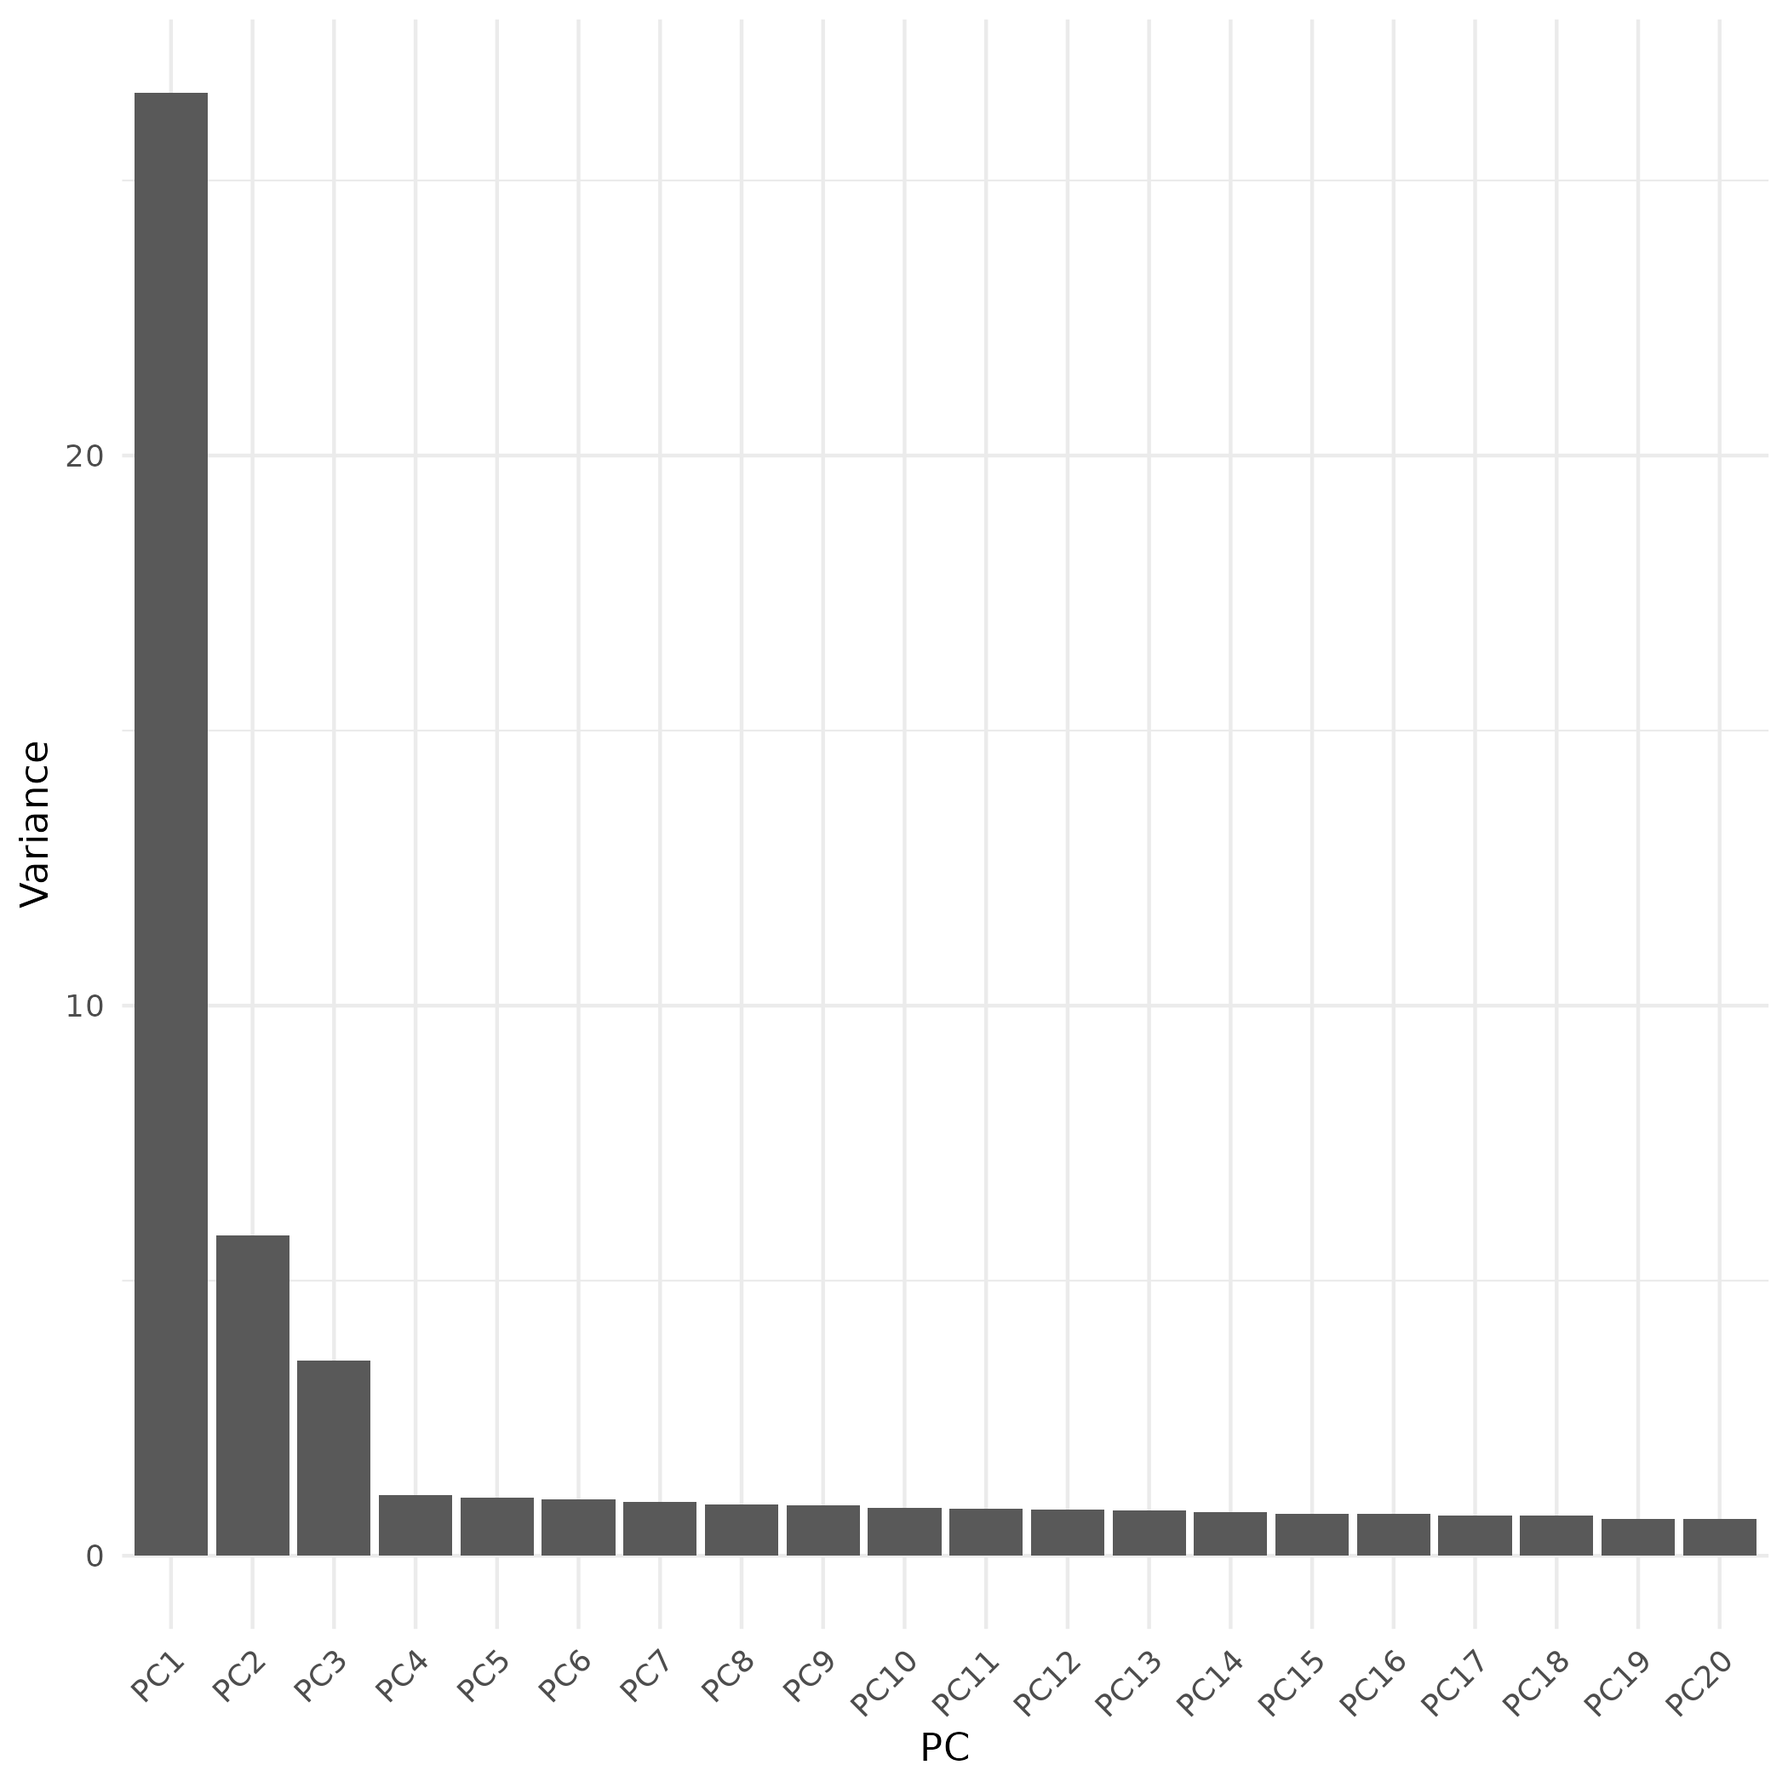
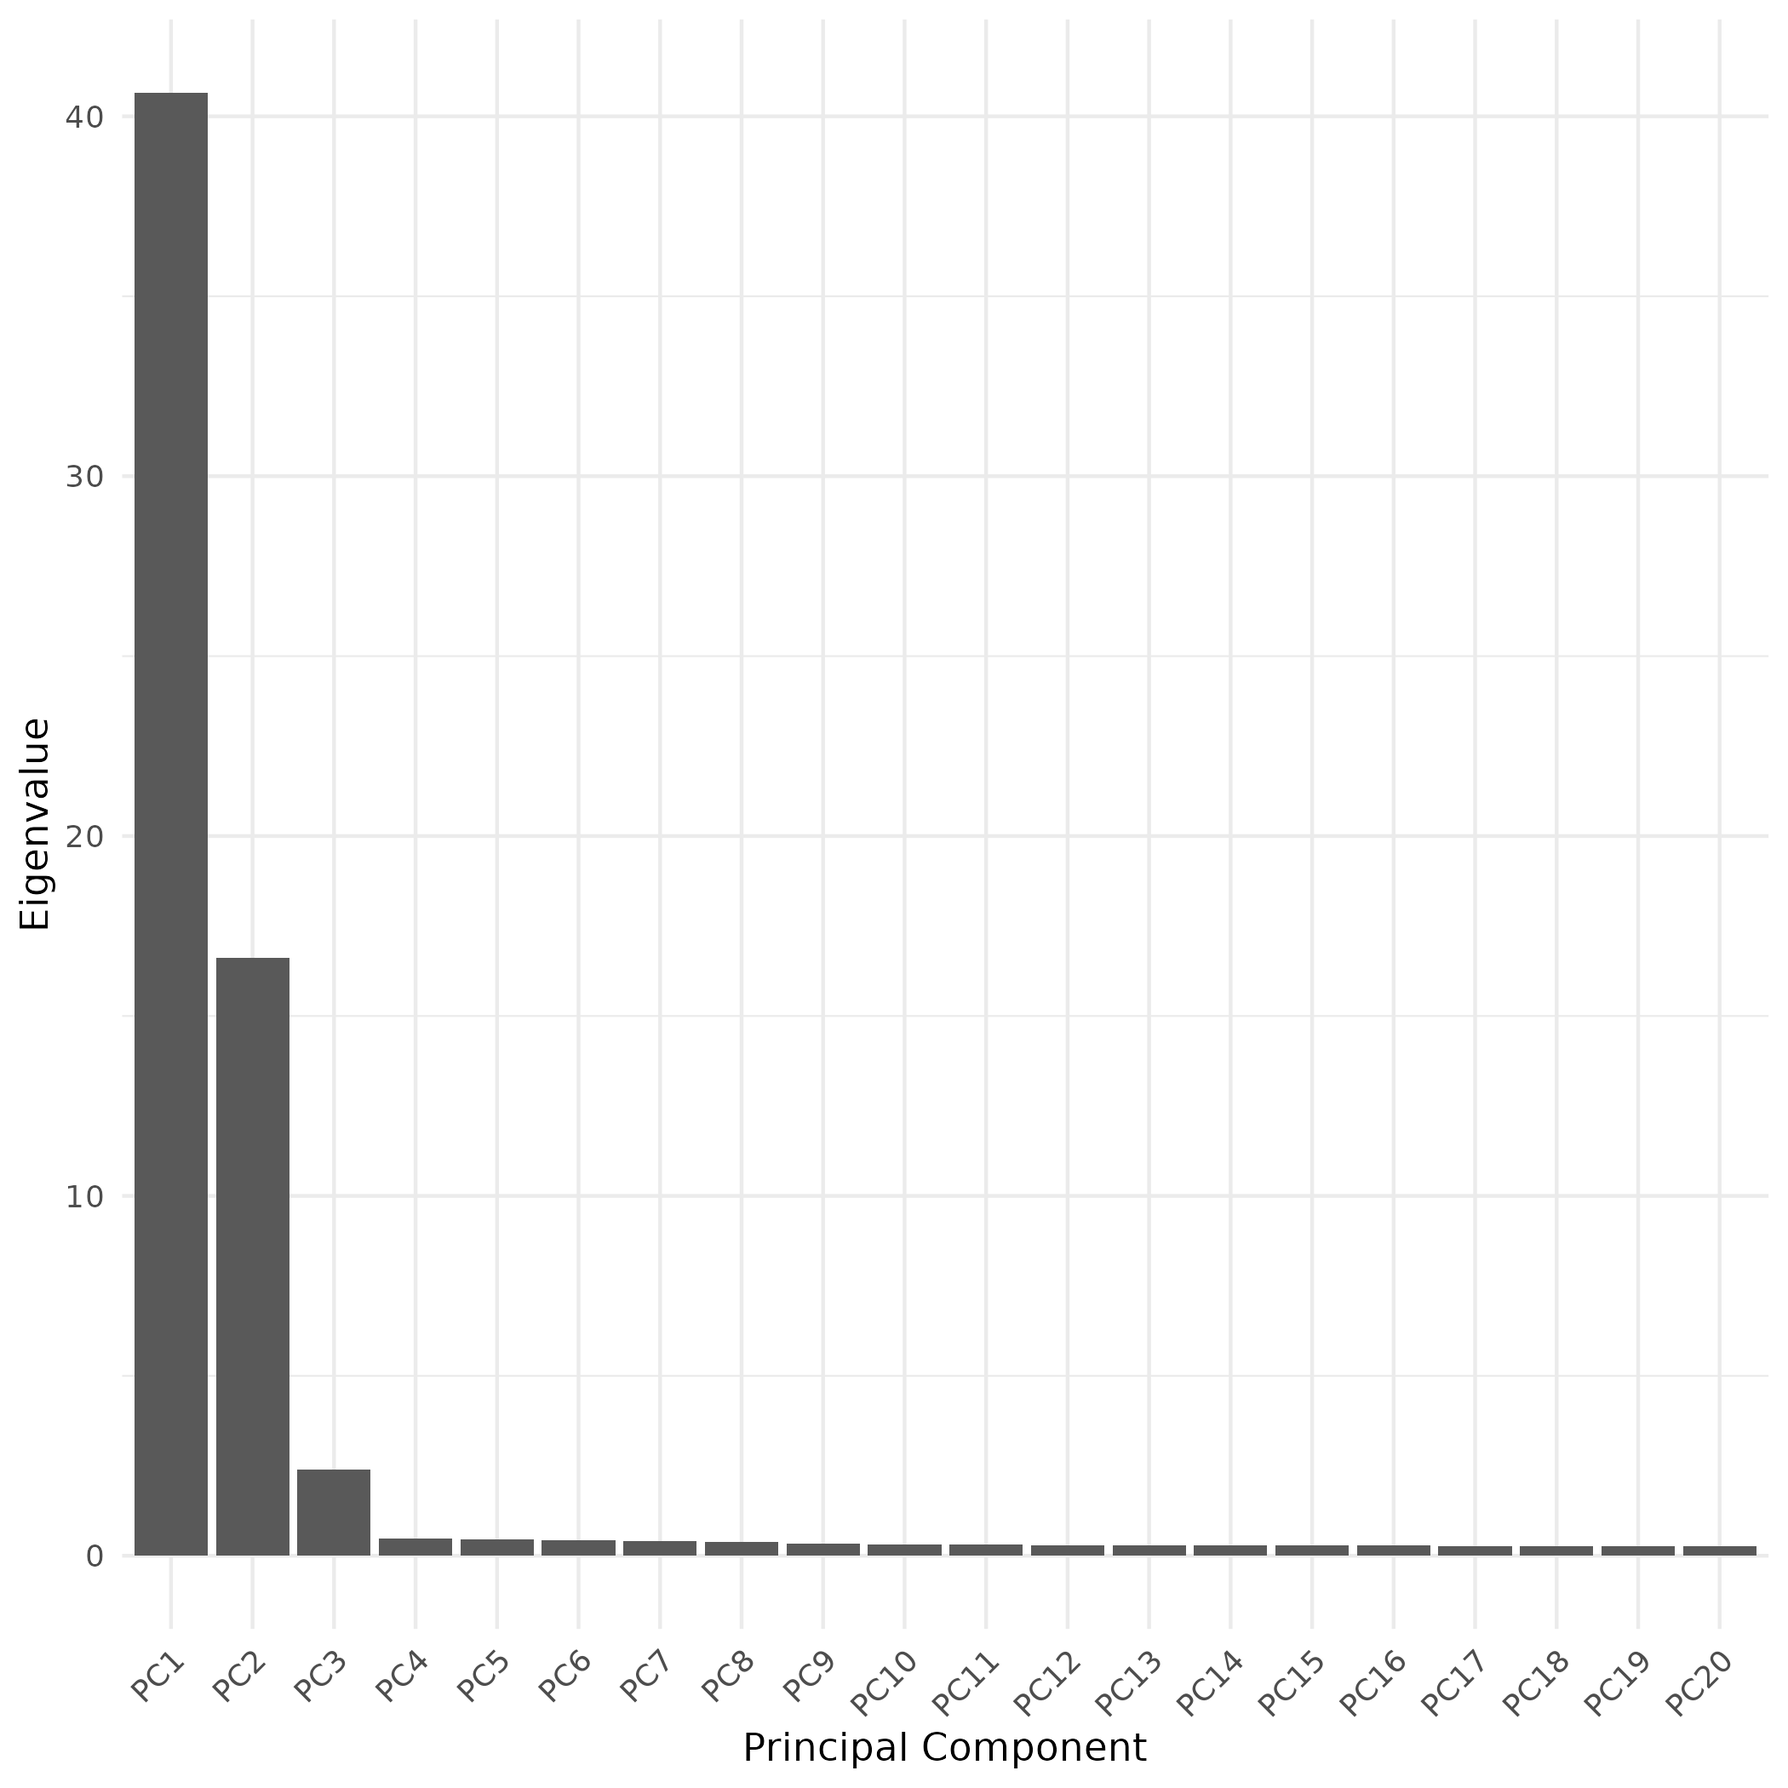
add angsd pca and some updates

diff --git a/README.md b/README.md
@@ -83,6 +83,8 @@ We'll use conda in this tutorial to handle all installations. If [conda](https:/
 
 Now that we've got everything set up, let's start with running a PCA on our genotype data. 
 
+### Using Plink
+
 In this tutorial, we're only using simulated data resembling modern, high coverage sequencing data. When this is the case, we can be pretty confident in our genotype calls in the vcf file, so we can use the genotypes, or specifically the single nucleotide polymorphisms (SNP), in the vcf as input for running the pca. A popular program for running PCA on SNP data is plink. Let's move into the folder 1.1_pca_with_plink, and work inside that folder for this part.
 
 ```bash
@@ -133,8 +135,6 @@ Plink has a lot of different filtering and parsing parameters available, and the
         --geno $missing_snp \
         --maf $minor_allele_freq \
         --make-pgen \
-        --indep-pairwise 50 5 $linkage_pruning_threshold \
-        --bad-ld \
         --rm-dup exclude-all \
         --out $outname
 
@@ -167,18 +167,18 @@ filters out SNPs with a minor allele frequency below the specified threshold. Th
 
 `--make-pgen`
 tells Plink to generate the binary PED files (.pgen, .pvar, .psam) as output.
-
+<!-- 
 `--indep-pairwise 50 5 $linkage_pruning_threshold`
 performs linkage disequilibrium pruning to remove highly correlated SNPs. The parameters `50 5 $linkage_pruning_threshold` specify the window size, step size, and r^2 threshold for pruning, respectively. The variable `$linkage_pruning_threshold` is defined at the beginning of the script and can be adjusted as needed.
 
 `--bad-ld`
-This flag is necessary if using the `--indep-pairwise` command on datasets wuth fewer than 50 individuals, just telling plink to ignore the fact that we're probably getting quite bad ld estimates here to base the pruning on. An alternative is to thin the dataset with physical distance instead, for example with vcftools, prior to running plink.
+This flag is necessary if using the `--indep-pairwise` command on datasets wuth fewer than 50 individuals, just telling plink to ignore the fact that we're probably getting quite bad ld estimates here to base the pruning on. An alternative is to thin the dataset with physical distance instead, for example with vcftools, prior to running plink. -->
 
 `--rm-dup exclude-all`
 removes duplicate variants from the analysis. Duplicate variants can remain in the dataset after decomposing multiallelic sites, and plink will throw an error if this is the case unless this flag is used.
 
 `--freq`
-tells Plink to calculate allele frequencies for the SNPs in the dataset. The output will be written to a file with the `.afreq` extension, which can be used in subsequent analyses, such as PCA. Like the `--bad-ld`, this is required if the number of samples in the data is less than 50, otherwise plink will estimate allele frequencies on the fly.
+tells Plink to calculate allele frequencies for the SNPs in the dataset. The output will be written to a file with the `.afreq` extension, which can be used in subsequent analyses, such as PCA. This is required if the number of samples in the data is less than 50, otherwise plink will estimate allele frequencies on the fly.
 
 `--out $outname`
 specifies the prefix for the output files.
@@ -206,24 +206,212 @@ Let's visualize the first two principal components using a simple scatter plot i
 
 ```bash
 
-    # to be able to plot this with R, we need R and the R-package tidyverse installed. If it isn't install to our environment with conda:
-    conda install -c conda-forge r-base r-tidyverse
+    # to be able to plot this with R, we need R and the R-package tidyverse installed. If it isn't, install to our environment with conda:
+    conda install -c conda-forge r-base r-tidyverse r-ggrepel
 
     # then, we can use the plot_pca.R script:
     Rscript plot_pca.R pca_std_filt/pca_data_std_filt_pca
 
 ```
 
-This will produce two plots, looking something like this:
+This will produce two plots: `pca_std_filt/pca_data_std_filt_pca_pca_plot.png` and `pca_std_filt/pca_data_std_filt_pca_eigenval_bar_plot.png`
 
-<img src="./figures/pca_data_std_filt_pca_pca_plot.png" alt="PCA Plot" width="600">
-<img src="./figures/pca_data_std_filt_pca_eigenval_bar_plot.png" alt="Eigenvalue Bar Plot" width="600">
+Inspect the plots, they should look something like this:
+
+<img src="./figures/pca_data_std_filt_pca_pca_plot.png" alt="PCA Plot" width="500">
+<img src="./figures/pca_data_std_filt_pca_eigenval_bar_plot.png" alt="Eigenvalue Bar Plot" width="500">
 
 The first plot is the actual PCA. Each point in the scatter plot represents an individual, positioned according to their scores on the first two principal components. The second plot shows the eigenvalues, which indicate the amount of variance explained by each principal component.
 
 1) What do you observe in the PCA plot? Are there any distinct clusters of individuals? How many populations would you say that there are based on this?
 
-2) From the eigenvalues, do you think it makes sense taht we extract the first two principal components and plot those?
+2) From the eigenvalues, do you think it makes sense that we extract the first two principal components and plot those?
 
 
-To make things a little bit clearer, we can color the points in the PCA plot by the population they belong to. For this, we'll need a population assignment file, just listing one sample per line, and what population they were sampled from. Together with the data in this tutorial such a file was included, named sample_metadata.tsv. This file contains three columns, sequencing_id, original_id and population. Sequencing_id was only used for the mapping and variant calling step, so we can ignore that for now.
+To make things a little bit clearer, we can color the points in the PCA plot by the population they belong to. For this, we'll need a population assignment file, just listing one sample per line, and what population they were sampled from. Together with the data in this tutorial such a file was included, named sample_metadata.tsv. This file contains three columns, sequencing_id, original_id and population. Sequencing_id was only used for the mapping and variant calling step, so we can ignore that for now. Let's subset the sample_metadata.tsv file to only include the two last columns, remove the header line, and put that in a new file:
+
+```bash
+# use cut to extract the second and third columns (original_id and population) and then tail to only start reading from the second line to remove the header line
+cut -f2,3 ../data/sample_metadata.tsv | tail -n +2 > ../data/sample_popfile.tsv
+```
+
+The `plot_pca.R` script was written to optionally take a populatiion file like this as input, and color the points in the PCA plot according to the population each individual belongs to. So let's rerun with the population file:
+
+```bash
+Rscript plot_pca.R pca_std_filt/pca_data_std_filt_pca ../data/sample_popfile.tsv
+```
+
+<img src="./figures/pca_data_std_filt_pca_pca_plot_popcolors.png" alt="PCA Plot popcolors" width="600">
+
+3) Did coloring the points by population help you to better distinguish the different clusters? Any new insights compared to the uncolored PCA plot?
+
+Clearly, population A and B end up more or less on top of each ither and any pattern there is difficult to discern. Let's make a PCA with only samples from population A and B:
+
+```bash
+
+# make a directory for storing files related to this subset analysis
+mkdir -p pca_AB_subset
+
+# extract a list of the samples to include
+cat ../data/sample_popfile.tsv | awk ' $2 == "popA" || $2 == "popB" {print $1}' > pca_AB_subset/AB_samples_to_include.txt
+
+# then we can simply pass this list to plink with the --keep flag, so let's copy the plink prepping script and add that argument
+cp prepare_plink_input.sh prepare_plink_input_subset.sh
+
+```
+
+Edit the `prepare_plink_input_subset.sh` script to include the `--keep` flag with the list of samples to look something like:
+
+
+    # take the vcf file as first argument
+    vcf=$1
+
+    # and a prefix name for the plink files as second argument
+    outname=$2
+
+    # list of samples to keep
+    samples=$3
+
+    ## filtering parameters
+    missing_ind=0.10 # minimum individual missingness threshold, i.e., individuals with more than 10% missing genotypes will be excluded
+    missing_snp=0.10 # minimum SNP missingness threshold, i.e., SNPs with more than 10% missing genotypes will be excluded
+    minor_allele_freq=0.05 # minimum minor allele frequency threshold, i.e., SNPs with a minor allele frequency below 5% will be excluded
+    # linkage_pruning_threshold=0.2 # threshold for linkage disequilibrium pruning, i.e., SNPs with an r^2 value above this threshold will be pruned
+    plink2 \
+        --vcf $vcf \
+        --allow-extra-chr \
+        --set-all-var-ids '@:#:$r:$a' \
+        --snps-only just-acgt \
+        --max-alleles 2 \
+        --mind $missing_ind \
+        --geno $missing_snp \
+        --maf $minor_allele_freq \
+        --make-pgen \
+        --rm-dup exclude-all \
+        --freq \
+        --keep $samples \
+        --out $outname
+
+And then prepare a new set of pca input files:
+
+```bash
+bash prepare_plink_input_subset.sh ../data/03_genotypes/01_filtered_variants/filtered_snps.vcf.gz pca_AB_subset/pca_data_AB_subset pca_AB_subset/AB_samples_to_include.txt
+
+# run the pca
+bash plink_pca.sh pca_AB_subset/pca_data_AB_subset
+
+# make a subset population map and plot
+cat ../data/sample_popfile.tsv | awk ' $2 == "popA" || $2 == "popB" ' > pca_AB_subset/AB_sample_popfile.tsv
+Rscript plot_pca.R pca_AB_subset/pca_data_AB_subset_pca pca_AB_subset/AB_sample_popfile.tsv
+
+```
+This is what that plot looks like:
+<img src="./figures/pca_data_AB_subset_pca_pca_plot.png" alt="PCA plot for AB subset" width="600">
+
+Not super useful, perhaps, but at least it's clear that you can separate also these ones...
+
+### Using angsd
+
+Had we been working with low-coverage sequencing data, or historical samples where the DNA might have been fragmented etc., [angsd](http://www.popgen.dk/angsd/index.php/ANGSD) would have been a more appropriate tool for performing PCA and other population genetic analyses. Angsd was specifically developed to handle differences in sequencing coverage that could otherwise have large impacts on downstream analyses. Instead of relying on hard genotype calls, angsd works directly with genotype likelihoods, which we will retrieve from the BAM files.
+
+To run a PCA using angsd, we need to install both the angsd suite, as well as pcangsd, which is a tool specifically designed for performing PCA on genotype likelihoods generated by angsd. We're also going to have to index the reference genome with samtools, so we'll go ahead and install that too.
+
+```bash
+# install angsd
+conda install -c bioconda angsd pcangsd samtools
+
+# install R and the plotting packages
+conda install -c conda-forge r-base r-tidyverse r-ggrepel
+
+# then move back to the base directory and enter the ANGSD subdirectory
+cd ..
+cd 1.2_pca_with_angsd
+
+```
+
+Next, we'll convert the .cram files to .bam files. Angsd is supposed to be able to work directly on cramfiles too, but it tends not to work if the path to the reference genome used to generate the crams have changed since they were created (which obviously is the case here).
+
+We can use samtools for this conversion:
+
+```bash
+# loop through all the cram files, and convert them to bam files putting them next to the original CRAM files
+for cram in ../data/02_bamfiles/*.dedup.cram; do
+    bam="../data/02_bamfiles/$(basename "$cram" .dedup.cram).dedup.bam"
+    samtools view -b -o "$bam" -T ../data/00_input_data/00_reference_genome/reference_genome.fa.gz "$cram"
+done
+
+```
+
+This will take a few minutes. When the loop has finished, make a list of the BAM files that will be used as input. The order of this list is also the order of the individuals in the ANGSD and PCAngsd output, so keep it sorted to match `../data/sample_popfile.tsv`.
+
+```bash
+# make a separate directory for the ANGSD/PCAngsd output
+mkdir -p pca_angsd
+
+# angsd has an annoying habit of renaming the samples in the output files based on the order in the BAM list, so it's important to keep the BAM list sorted consistently with the population file to make sure that the sample IDs match correctly.
+# make a little loop to create a list of all the bamfiles, sorted as they are in the popfile
+>pca_angsd/bamlist.txt # creates an empty bamlist file
+while read sample pop; do
+    bam=$(find ../data/02_bamfiles -maxdepth 1 -name "$sample.dedup.bam")
+    echo "$bam" >> pca_angsd/bamlist.txt
+done < ../data/sample_popfile.tsv
+
+# check that the number of CRAM files matches the number of population assignments
+wc -l pca_angsd/bamlist.txt ../data/sample_popfile.tsv
+```
+
+The command below calculates genotype likelihoods using the SAMtools model (`-GL 1`) and writes them in Beagle format (`-doGlf 2`), which is the format expected by PCAngsd. The `-doMajorMinor 1` and `-doMaf 1` options also calculate the major/minor alleles and allele frequencies used during processing.
+
+```bash
+
+angsd \
+    -b pca_angsd/bamlist.txt \
+    -out pca_angsd/angsd_pca \
+    -GL 1 \
+    -doGlf 2 \
+    -doMajorMinor 1 \
+    -doMaf 1 \
+    -minMapQ 30 \
+    -minQ 20 \
+    -SNP_pval 1e-6 \
+    -nThreads 4
+```
+
+
+This also takes a few minutes, and if you'd be running this on a real dataset, it would be much better to run as a slurm job. For now, let's wait for it to finish, and then there should be a file called `pca_angsd/angsd_pca.beagle.gz`, containing genotype likelihoods rather than hard genotype calls. We can now use that file as input for PCAngsd:
+
+```bash
+pcangsd \
+    --beagle pca_angsd/angsd_pca.beagle.gz \
+    --out pca_angsd/pcangsd
+```
+
+The main PCAngsd output files are:
+
+- `pca_angsd/pcangsd.cov`, the covariance matrix used for the PCA.
+- `pca_angsd/pcangsd.log`, the log of the PCAngsd run.
+
+The covariance matrix contains the relationships between individuals. The plotting script calculates its eigenvalues and eigenvectors directly, so separate `.eval` and `.pcangsd` files are not required. The sample order is the same as in `pca_angsd/bamlist.txt`, so `../data/sample_popfile.tsv` can be used to color the points by population.
+
+The plotting script is similar to the one used for the Plink PCA. It reads the PCAngsd covariance matrix and calculates the PCA in R. Run it with the PCAngsd output prefix and the same BAM list used for ANGSD:
+
+To color the points by population, provide the population file as the second argument:
+
+```bash
+Rscript plot_pca_angsd.R \
+    pca_angsd/pcangsd \
+    ../data/sample_popfile.tsv \
+    pca_angsd/bamlist.txt
+```
+
+This creates `pca_angsd/pcangsd_pca_plot.png` and `pca_angsd/pcangsd_eigenval_bar_plot.png`.
+
+- Any differences?
+
+<img src="./figures/pca_data_std_filt_pca_pca_plot_popcolors.png" alt="PCA plot for all samples, plink" width="500">
+<img src="./figures/pcangsd_pca_plot.png" alt="PCA plot for all samples, pcangsd" width="500">
+
+
+## Admixture analysis
+
+### 
